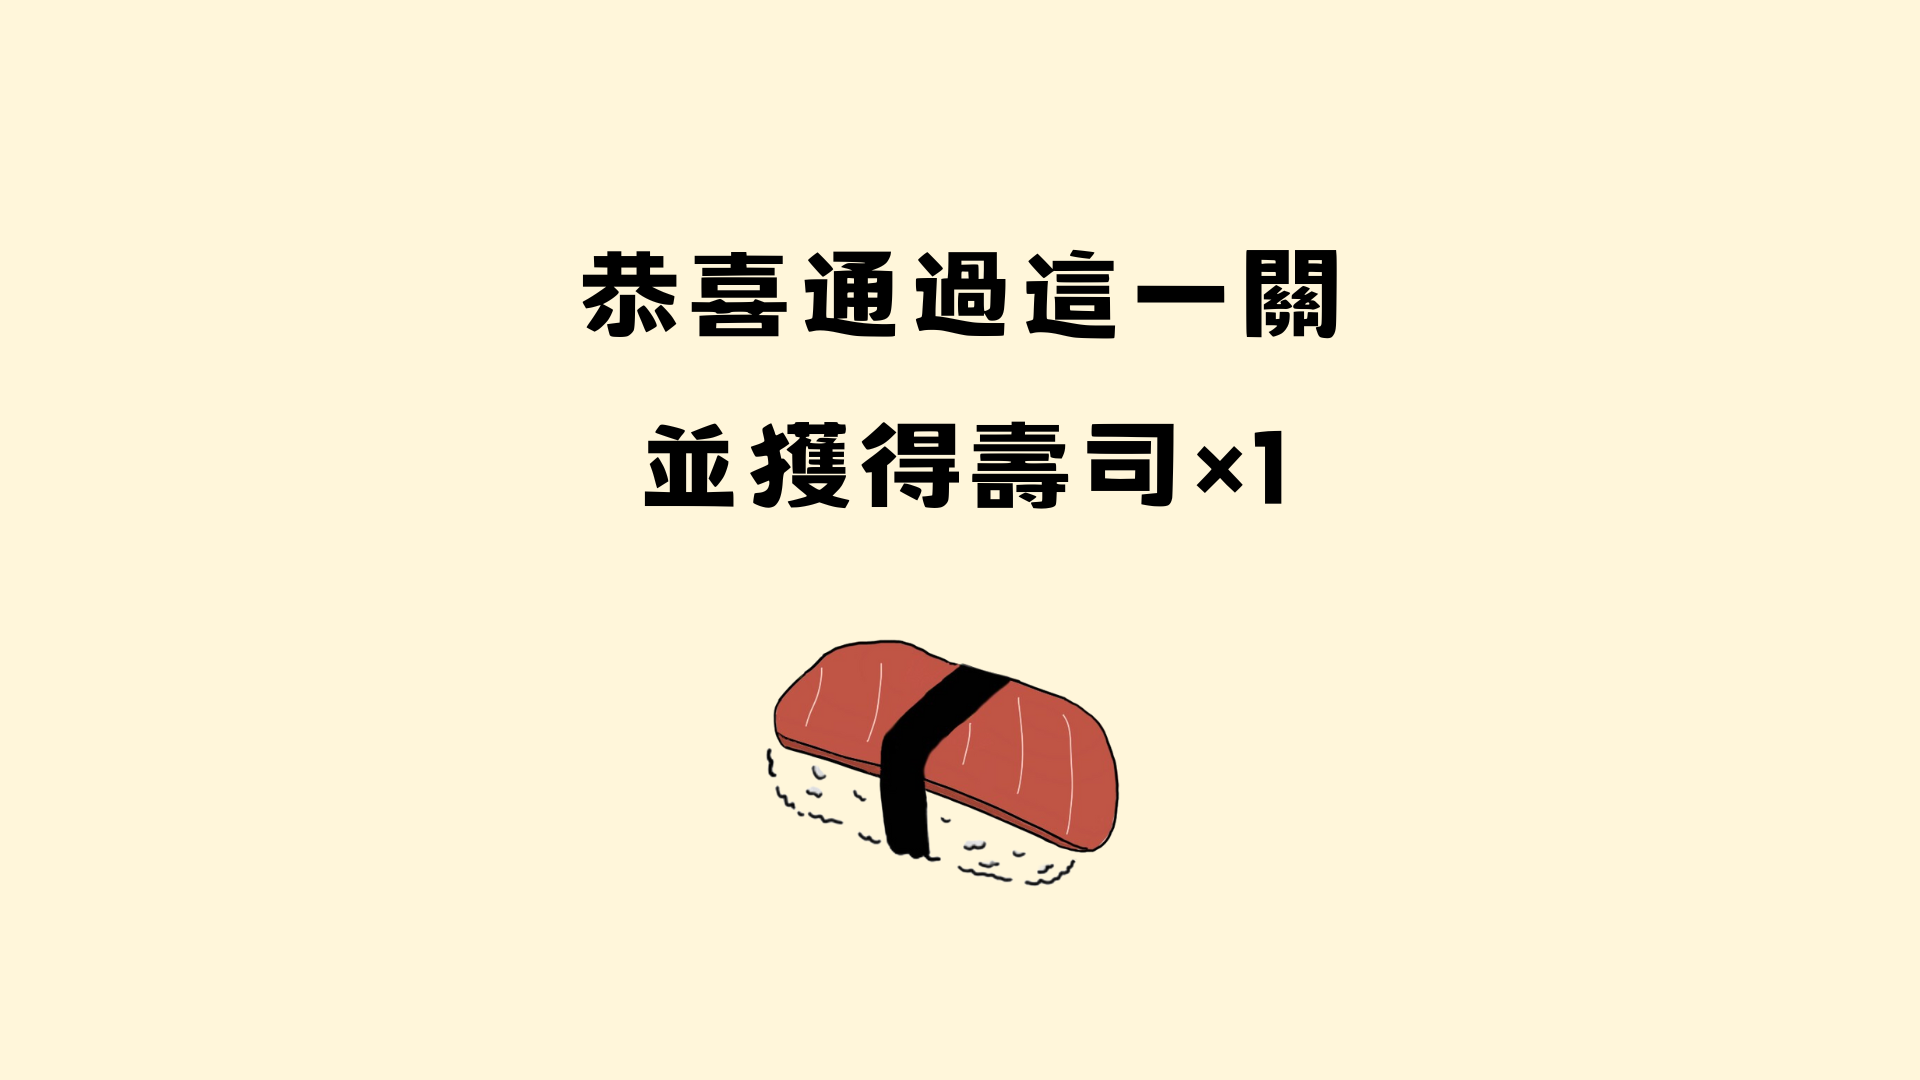
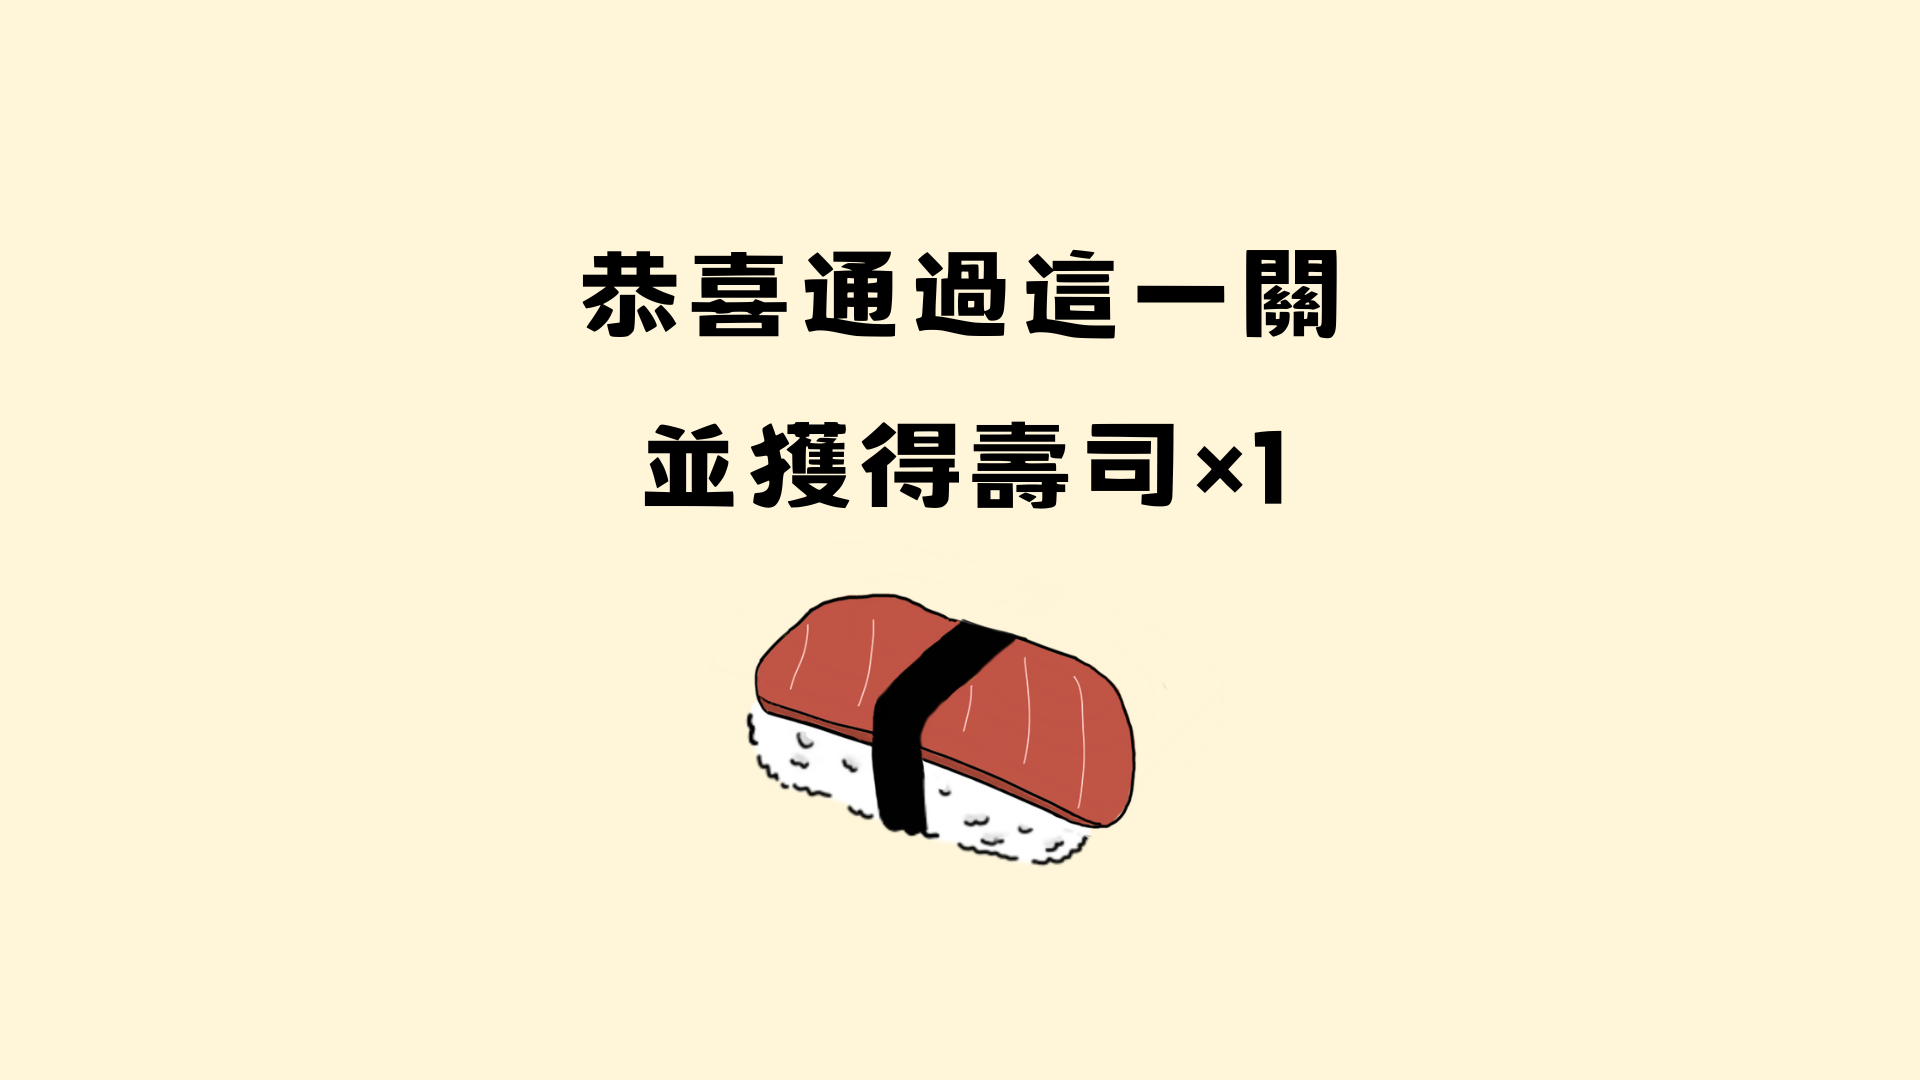
第 10 關修改邏輯

Changed region(s): [[0.375, 0.55, 0.5938, 0.825]]

diff --git a/assets/js/scene10.js b/assets/js/scene10.js
@@ -12,10 +12,8 @@ class Scene10 extends Phaser.Scene {
   }
 
   create() {
-    // 加載背景圖片
-    this.add.image(0, 0, "background10").setOrigin(0, 0); // 將中心點設為左上角
+    this.add.image(0, 0, "background10").setOrigin(0, 0);
 
-    // 定義四個位置
     let positions = [
       { x: 400, y: 370 },
       { x: 900, y: 370 },
@@ -23,10 +21,8 @@ class Scene10 extends Phaser.Scene {
       { x: 900, y: 820 },
     ];
 
-    // 打亂位置數組
     this.shuffleArray(positions);
 
-    // 白色區域顯示四張圖片，並分配隨機位置
     let items = [
       { key: "斧頭", x: positions[0].x, y: positions[0].y },
       { key: "噴槍", x: positions[1].x, y: positions[1].y },
@@ -34,10 +30,8 @@ class Scene10 extends Phaser.Scene {
       { key: "遙控器", x: positions[3].x, y: positions[3].y },
     ];
 
-    // 用於儲存玩家選擇的物品
     this.selectedItems = [];
 
-    // 加載和顯示每個物品，並使它們可點擊
     items.forEach((item) => {
       let obj = this.add.image(item.x, item.y, item.key).setInteractive();
       obj.setScale(0.36);
@@ -46,84 +40,16 @@ class Scene10 extends Phaser.Scene {
         this.toggleSelection(obj);
       });
     });
-
-    // 創建彈出視窗
-    this.createPopup();
   }
 
-  // 切換物品選擇狀態
   toggleSelection(item) {
-    if (this.selectedItems.includes(item.getData("name"))) {
-      // 如果已選擇則取消選擇
-      this.selectedItems = this.selectedItems.filter(
-        (i) => i !== item.getData("name")
-      );
-      item.setTint(0xffffff); // 恢復原色
-    } else {
-      // 如果未選擇則選擇
-      this.selectedItems.push(item.getData("name"));
-      item.setTint(0x00ff00); // 設置為選中顏色
-
-      // 檢查答案
-      this.checkAnswer();
-    }
-  }
-
-  // 檢查答案
-  checkAnswer() {
-    // 正確答案
-    let correctItems = ["噴槍"];
-
-    // 檢查選擇的物品是否正確
-    let isCorrect =
-      correctItems.every((item) => this.selectedItems.includes(item)) &&
-      this.selectedItems.length === correctItems.length;
-
-    // 顯示結果
-    if (isCorrect) {
+    if (item.getData("name") === "噴槍") {
       this.scene.start("Next10");
     } else {
-      this.showPopup("錯誤");
+      item.setVisible(false);
     }
   }
 
-  // 創建彈出視窗
-  createPopup() {
-    this.popup = this.add.container(400, 300);
-    let popupBackground = this.add.graphics();
-    popupBackground.fillStyle(0x00ffff, 0.8);
-    popupBackground.fillRect(-150, -100, 300, 200);
-    let popupText = this.add
-      .text(0, 0, "", {
-        fontSize: "32px",
-        fill: "#f00",
-        padding: { top: 10, bottom: 10, left: 10, right: 10 },
-      })
-      .setOrigin(0.5);
-    this.popup.add([popupBackground, popupText]);
-    this.popup.setVisible(false);
-    this.popupText = popupText;
-  }
-
-  // 顯示彈出視窗
-  showPopup(message) {
-    this.popupText.setText(message);
-    this.popup.setVisible(true);
-    this.time.delayedCall(
-      2000,
-      () => {
-        this.popup.setVisible(false);
-        // 隱藏所有物品
-        this.optionsGroup.children.each((item) => {
-          item.setVisible(false);
-        });
-      },
-      [],
-      this
-    );
-  }
-
-  // 打亂數組的函數
   shuffleArray(array) {
     for (let i = array.length - 1; i > 0; i--) {
       const j = Math.floor(Math.random() * (i + 1));

diff --git a/assets/js/start.js b/assets/js/start.js
@@ -22,7 +22,7 @@ class Start extends Phaser.Scene {
 
   startGame() {
     this.scene.start("Instructions");
-    //this.scene.start("Scene9");
+    //this.scene.start("Scene10");
     //this.scene.start("Introduce3");
   }
 }
